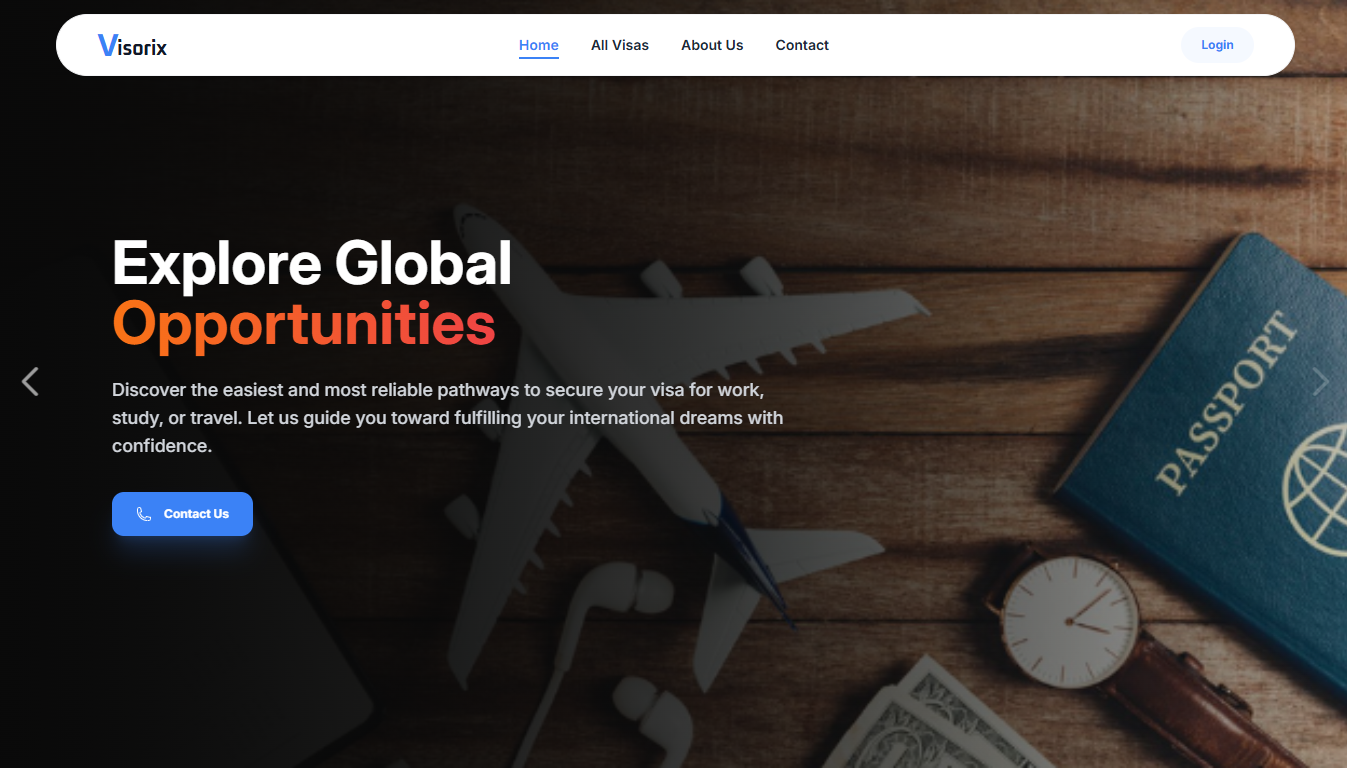
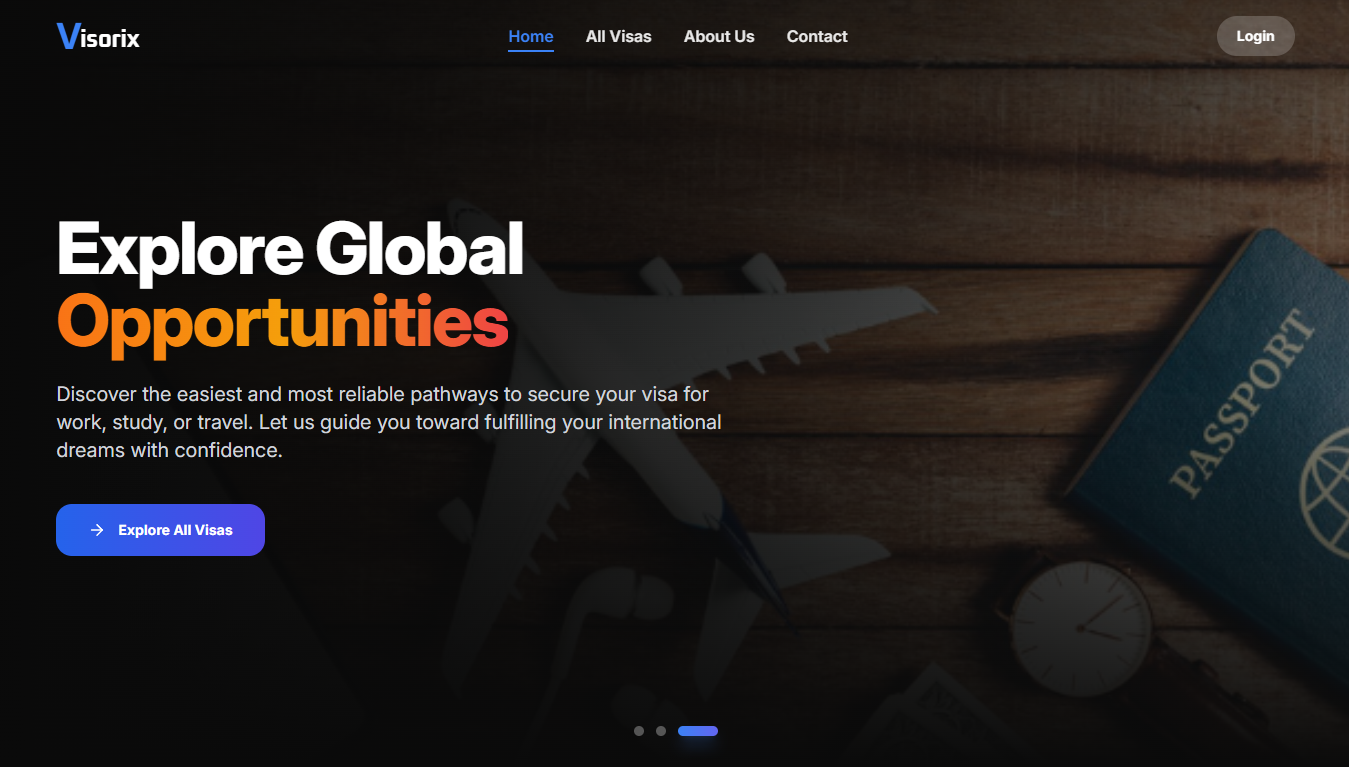
logiclab project added

diff --git a/data/projectData.ts b/data/projectData.ts
@@ -50,15 +50,14 @@ export const projectCards: ProjectCard[] = [
   },
   {
     id: 4,
-    image: "/images/visorix.png",
-    title: "Visorix",
+    image: "/images/logiclab-dark.png",
+    title: "LogicLab.",
     description:
-      "The Visa Navigator is a comprehensive web application designed to simplify the process of checking visa requirements, applying for visas, and tracking visa applications. It offers a user-friendly interface with features such as secure authentication (email/password and Google login), protected routes, and dynamic pages. Users can manage visa details, apply for visas, and track their applications through a personalized dashboard. The app supports CRUD operations for adding and updating visa information, with real-time notifications for successful actions. ",
-    tags: ["React", "Express", "MongoDB", "Firebase"],
-    date: "29-OCT-2024",
-    live: "https://visorix.vercel.app/",
-    githubClient: "https://github.com/tm-fuad05/Visa-Navigator-client",
-    githubServer: "https://github.com/tm-fuad05/Visa-Navigator-Server",
+      "LogicLab is a comprehensive React & JavaScript logic showcase engineered to demonstrate essential web development patterns, custom hook architectures, and frontend algorithms. Built with React 19 and TypeScript, it serves as an interactive playground highlighting real-world UI logic—including dynamic data filtering, asynchronous event throttling/debouncing, DOM visibility observers, form validation handlers, and state persistence mechanisms.",
+    tags: ["React", "Tailwind CSS"],
+    date: "27-AUG-2026",
+    live: "https://mylogiclab.vercel.app",
+    githubClient: "https://github.com/tm-fuad05/LogicLab",
   },
   {
     id: 5,
@@ -78,8 +77,20 @@ export const projectCards: ProjectCard[] = [
     description:
       "Lingo Bingo is an engaging vocabulary-building web application built with React and Tailwind CSS. The app focuses on providing learners with a smooth, intuitive, and visually appealing experience while maintaining robust user authentication and state management.",
     tags: ["React", "Tailwind CSS", "Firebase"],
-    date: "20-SEP-2026",
+    date: "20-AUG-2024",
     live: "https://lingo-bingo-seven.vercel.app/",
     githubClient: "https://github.com/tm-fuad05/Lingo-Bingo",
+  },
+  {
+    id: 7,
+    image: "/images/visorix.png",
+    title: "Visorix",
+    description:
+      "The Visa Navigator is a comprehensive web application designed to simplify the process of checking visa requirements, applying for visas, and tracking visa applications. It offers a user-friendly interface with features such as secure authentication (email/password and Google login), protected routes, and dynamic pages. Users can manage visa details, apply for visas, and track their applications through a personalized dashboard. The app supports CRUD operations for adding and updating visa information, with real-time notifications for successful actions. ",
+    tags: ["React", "Express", "MongoDB", "Firebase"],
+    date: "29-OCT-2024",
+    live: "https://visorix.vercel.app/",
+    githubClient: "https://github.com/tm-fuad05/Visa-Navigator-client",
+    githubServer: "https://github.com/tm-fuad05/Visa-Navigator-Server",
   },
 ];
